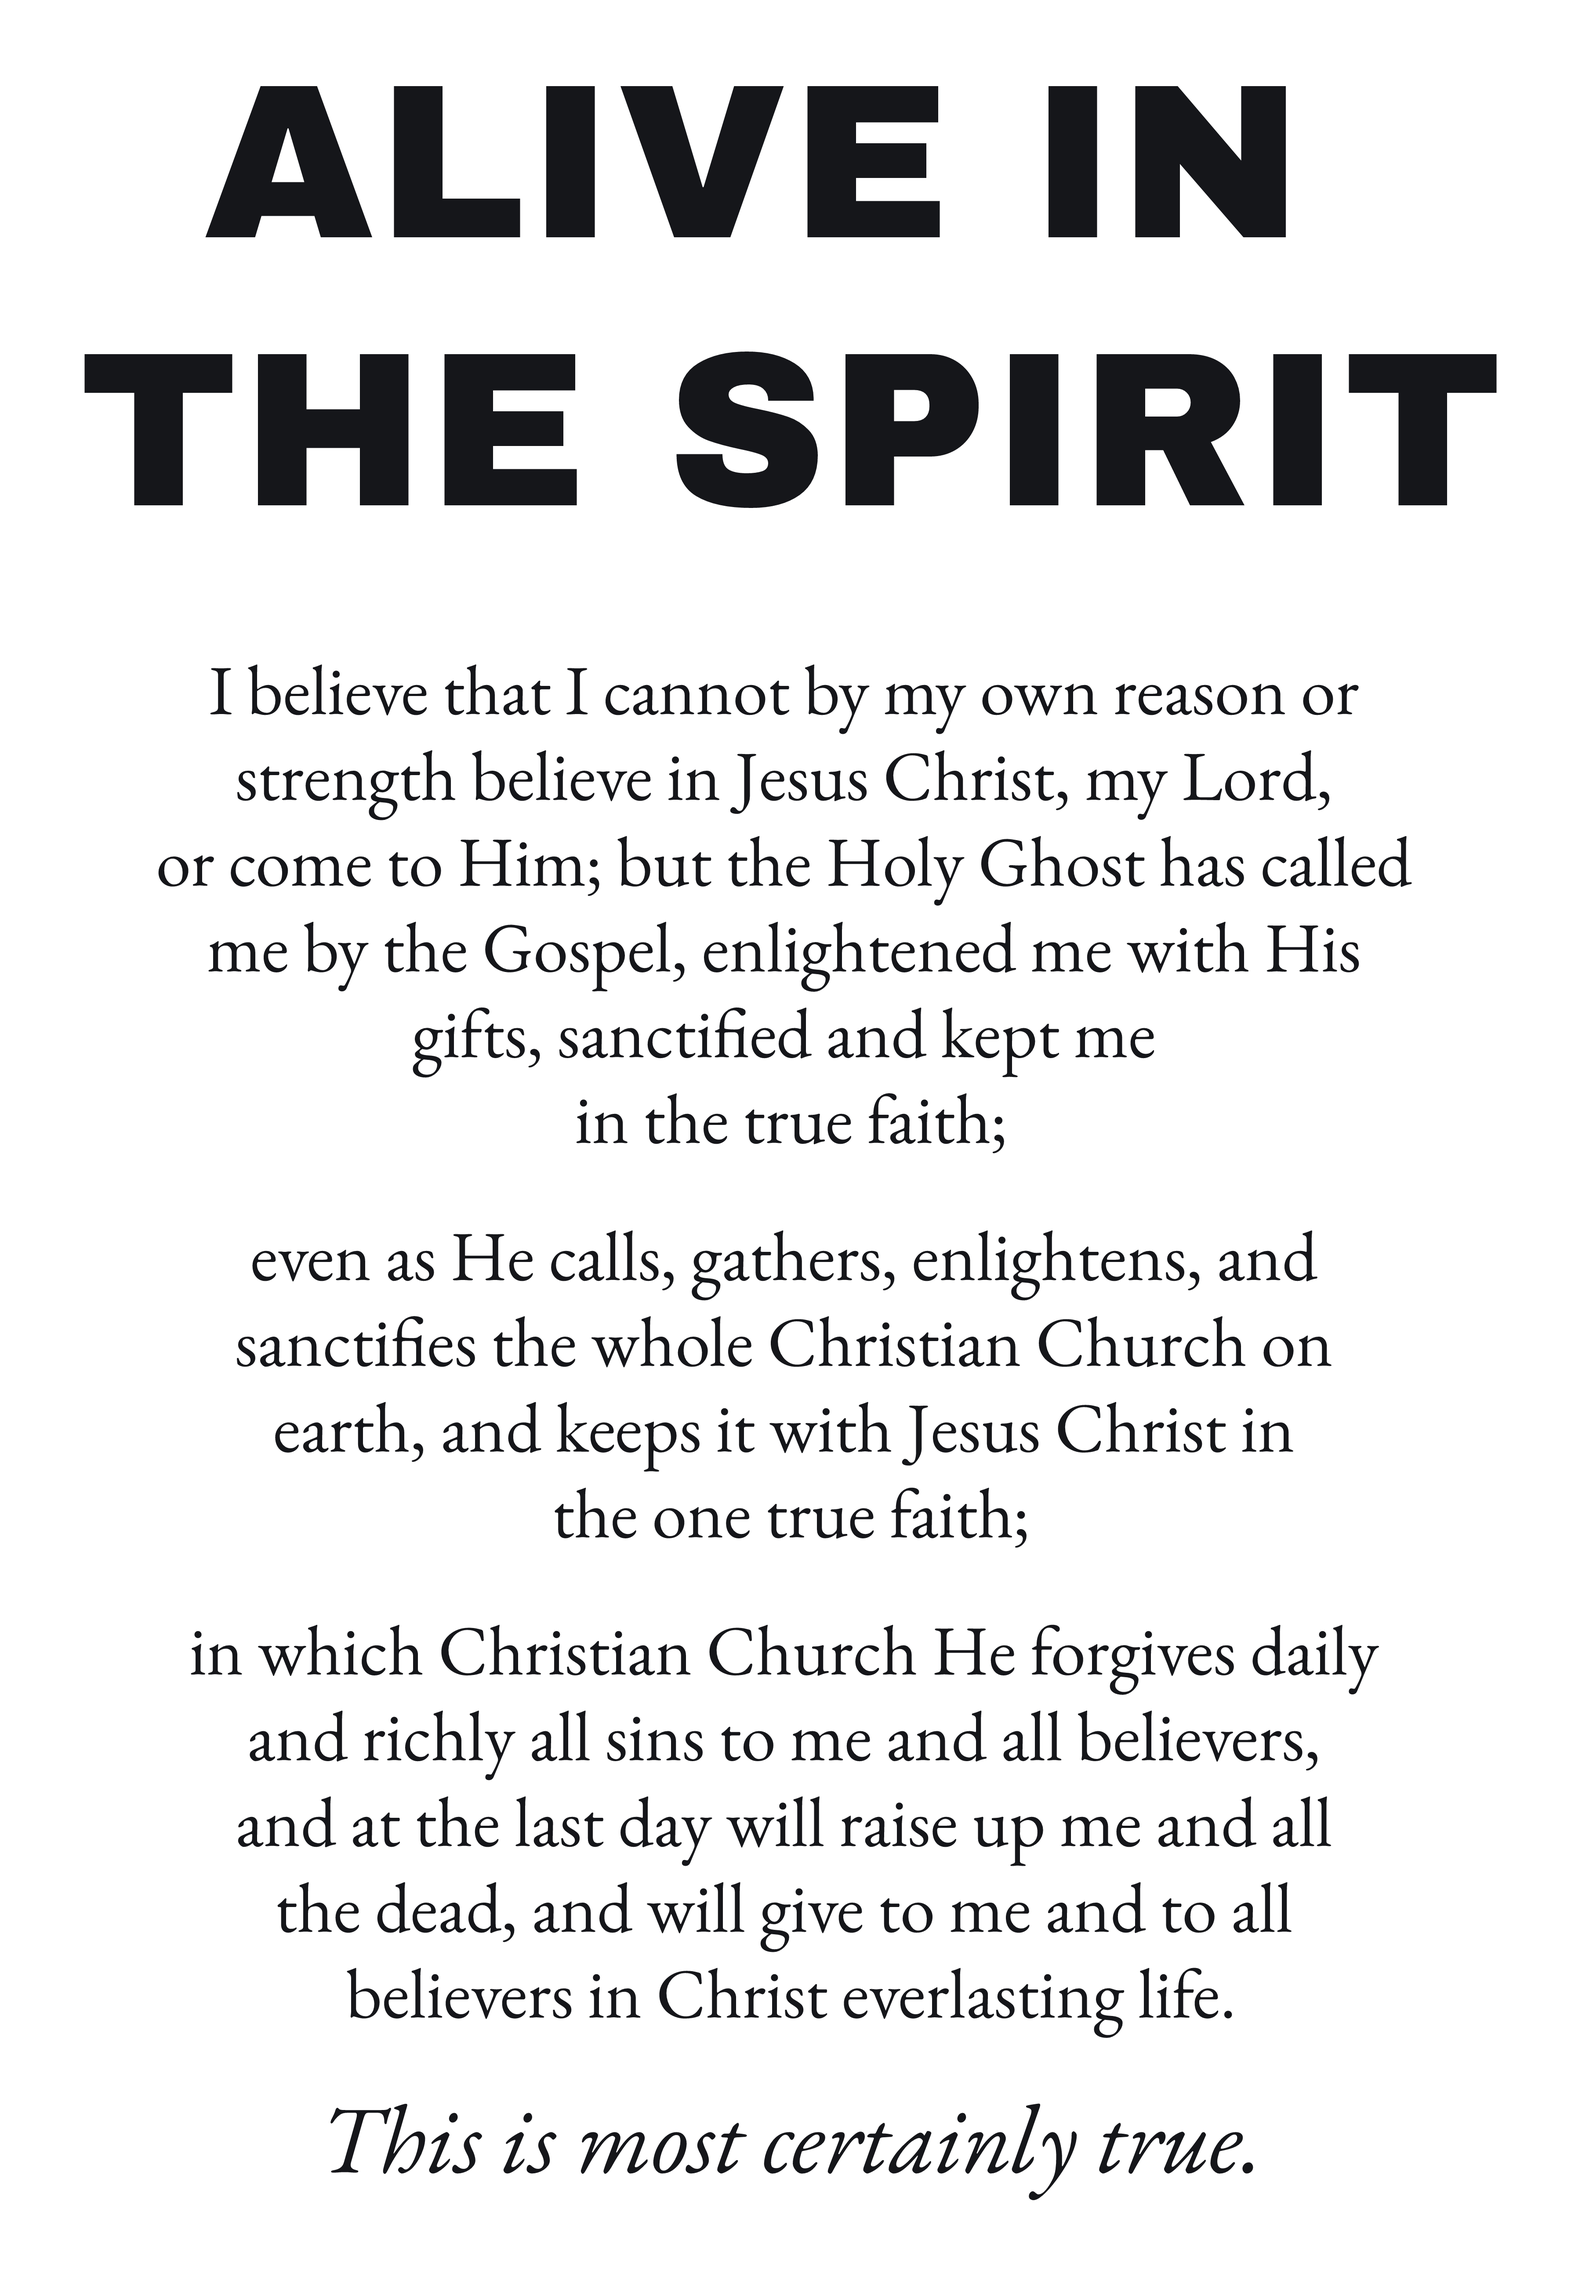
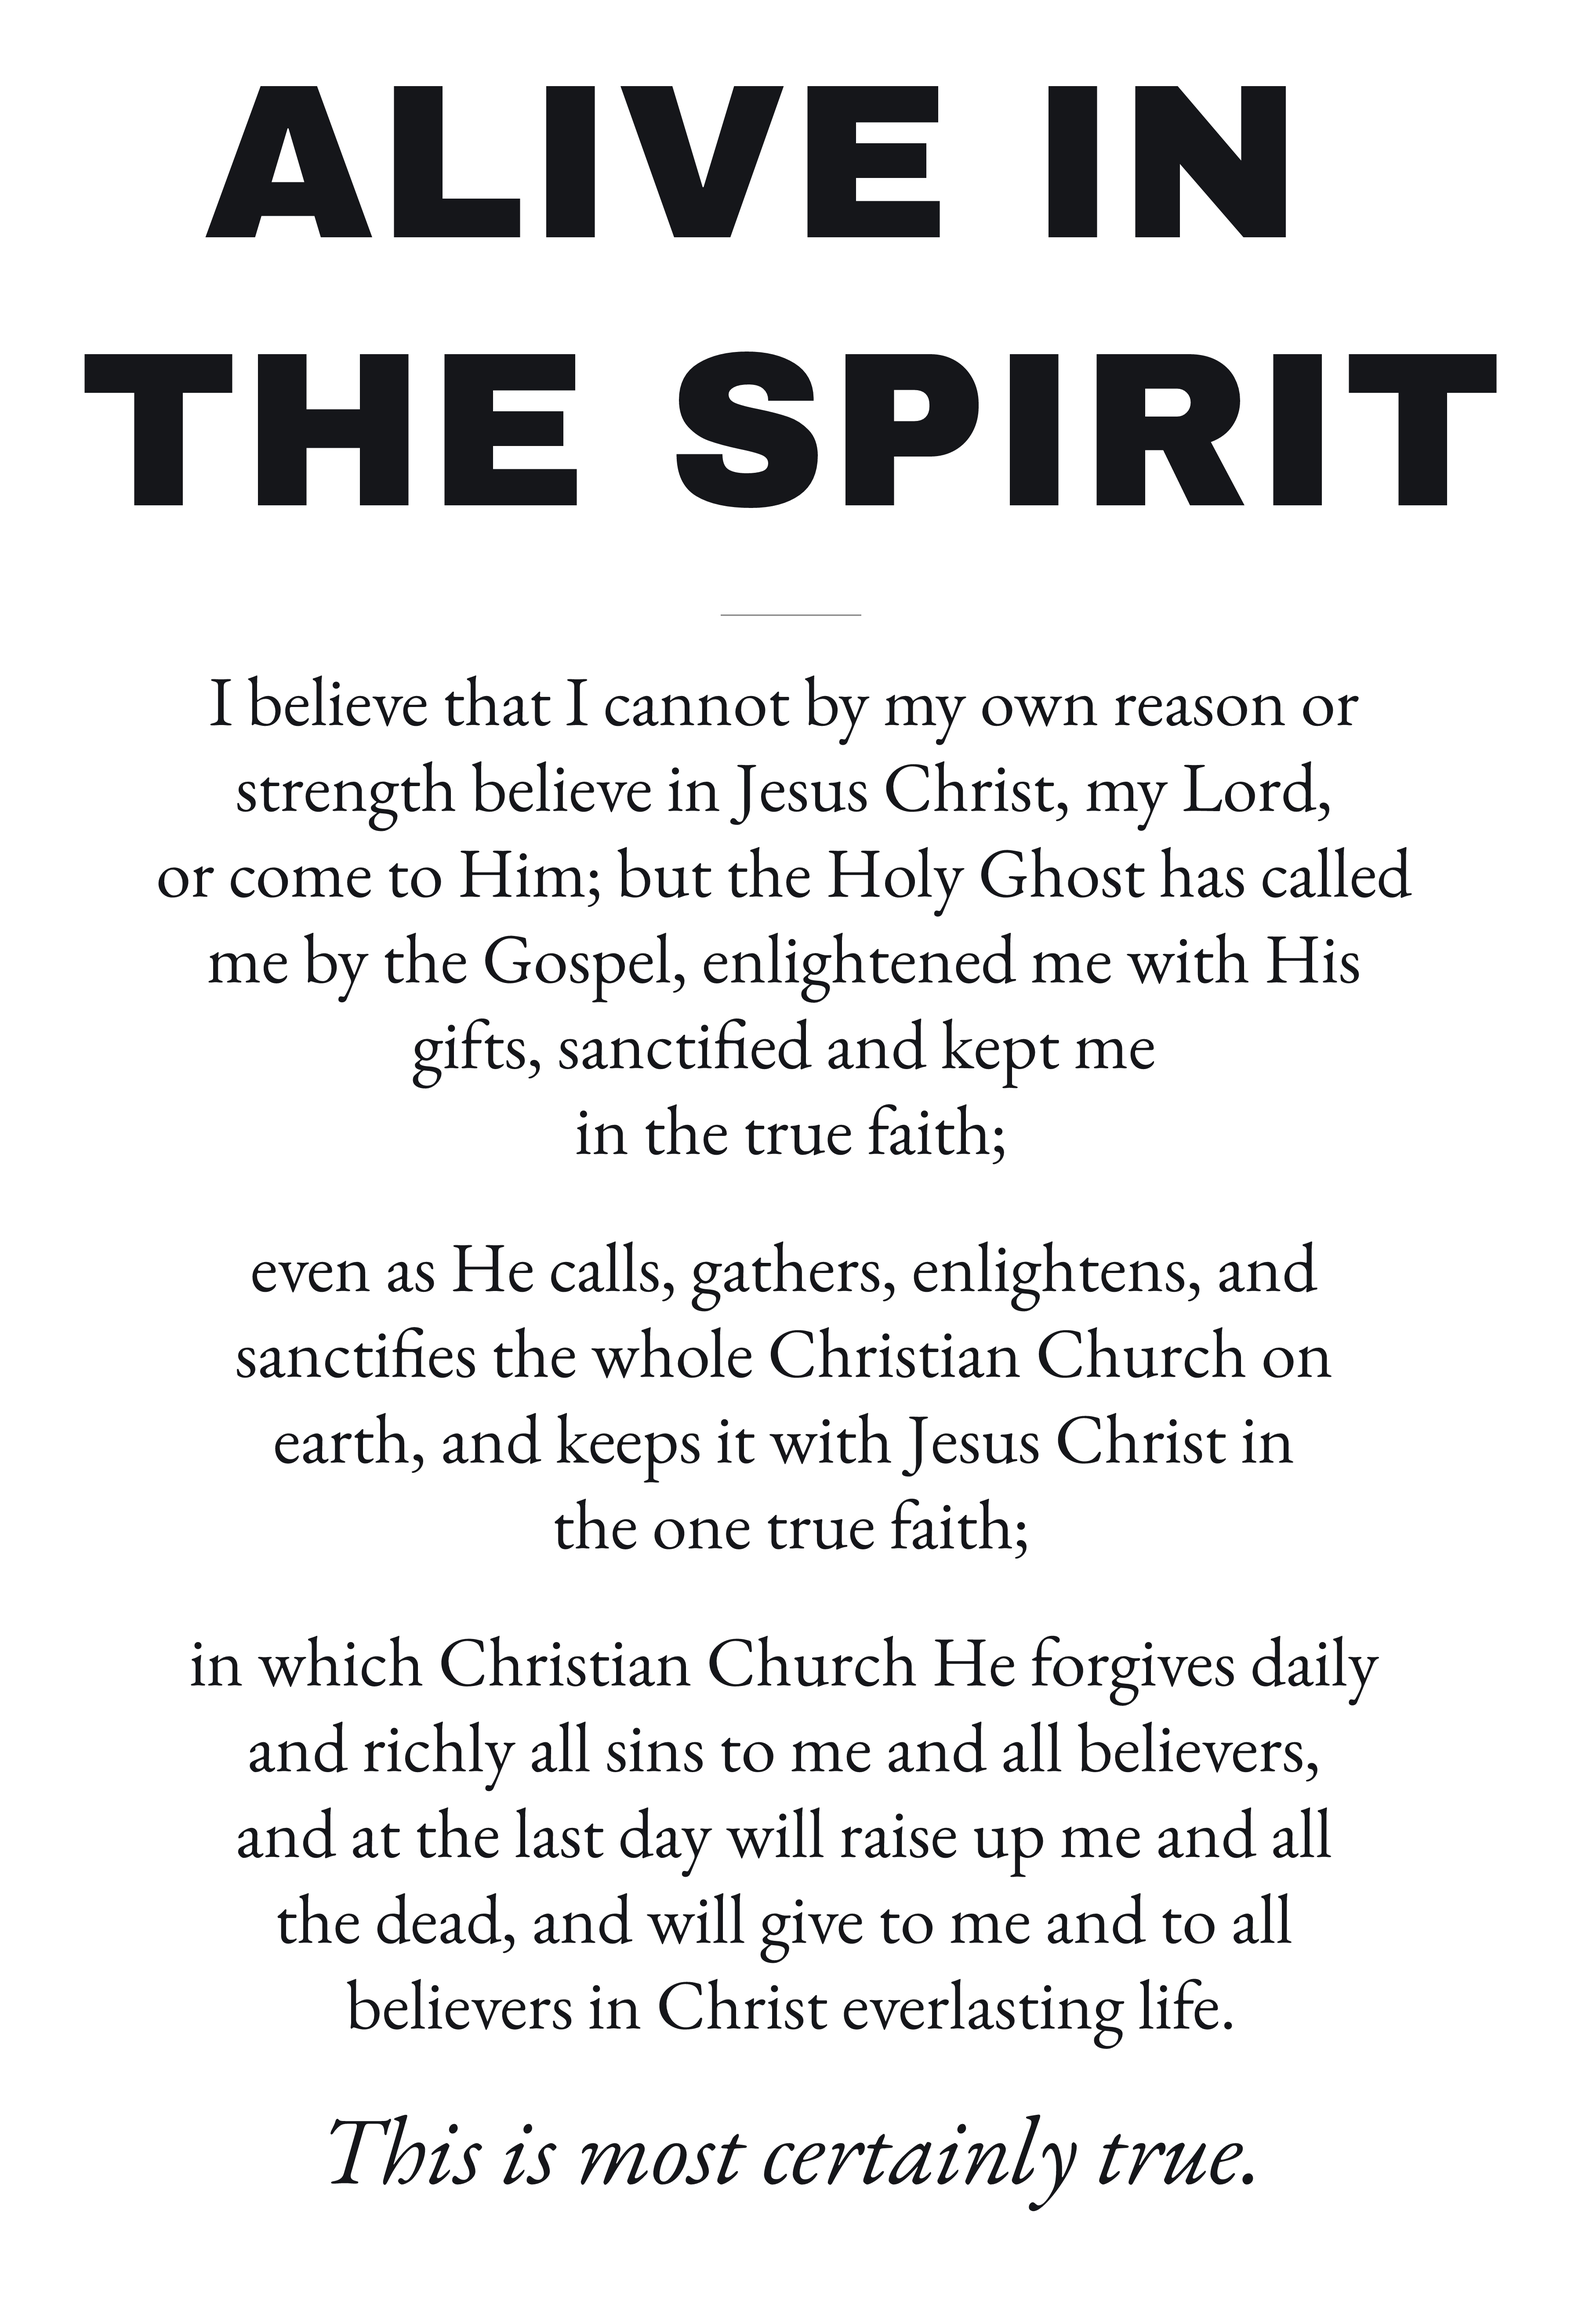
Re-add a subtle divider line between the header and the body
A user-requested clarification: with no rule between header and verses,
the chunky Archivo Black title visually melts into the heavy serif
verses below. Adding back a divider, but much subtler than the earlier
version we removed:

  - 320 px wide (vs 700 before)
  - 3 px stroke (vs 6 before)
  - stroke-opacity 0.7
  - centered, palette["rule"] color

Used on both front and back, half-title-height padding above and below
so the header reads as a heading and the divider is felt more than
seen.

diff --git a/build.py b/build.py
@@ -223,7 +223,14 @@ def render_front_layout(meta, blocks, palette, with_bg=True):
             family=TITLE_FAMILY, weight="900", letter_spacing=8,
         )
         content.append(svg)
-        y = end_y + TITLE_FONT * 0.95  # space below title (no rule line)
+        rule_y = end_y + TITLE_FONT * 0.5
+        rule_w = 320
+        content.append(
+            f'<line x1="{cx - rule_w // 2}" y1="{rule_y}" '
+            f'x2="{cx + rule_w // 2}" y2="{rule_y}" '
+            f'stroke="{palette["rule"]}" stroke-width="3" stroke-opacity="0.7"/>'
+        )
+        y = rule_y + TITLE_FONT * 0.5
 
     verse_blocks = [b for b in blocks if (b["heading"] or "").lower() != "closing"]
     closing = next((b for b in blocks if (b["heading"] or "").lower() == "closing"), None)
@@ -285,7 +292,14 @@ def render_back_layout(meta, blocks, palette, with_bg=True):
         family=TITLE_FAMILY, weight="900", letter_spacing=8,
     )
     content.append(svg)
-    y = end_y + TITLE_FONT * 0.95  # space below title (no rule line)
+    rule_y = end_y + TITLE_FONT * 0.5
+    rule_w = 320
+    content.append(
+        f'<line x1="{cx - rule_w // 2}" y1="{rule_y}" '
+        f'x2="{cx + rule_w // 2}" y2="{rule_y}" '
+        f'stroke="{palette["rule"]}" stroke-width="3" stroke-opacity="0.7"/>'
+    )
+    y = rule_y + TITLE_FONT * 0.5
 
     if sub:
         s_font = 96
